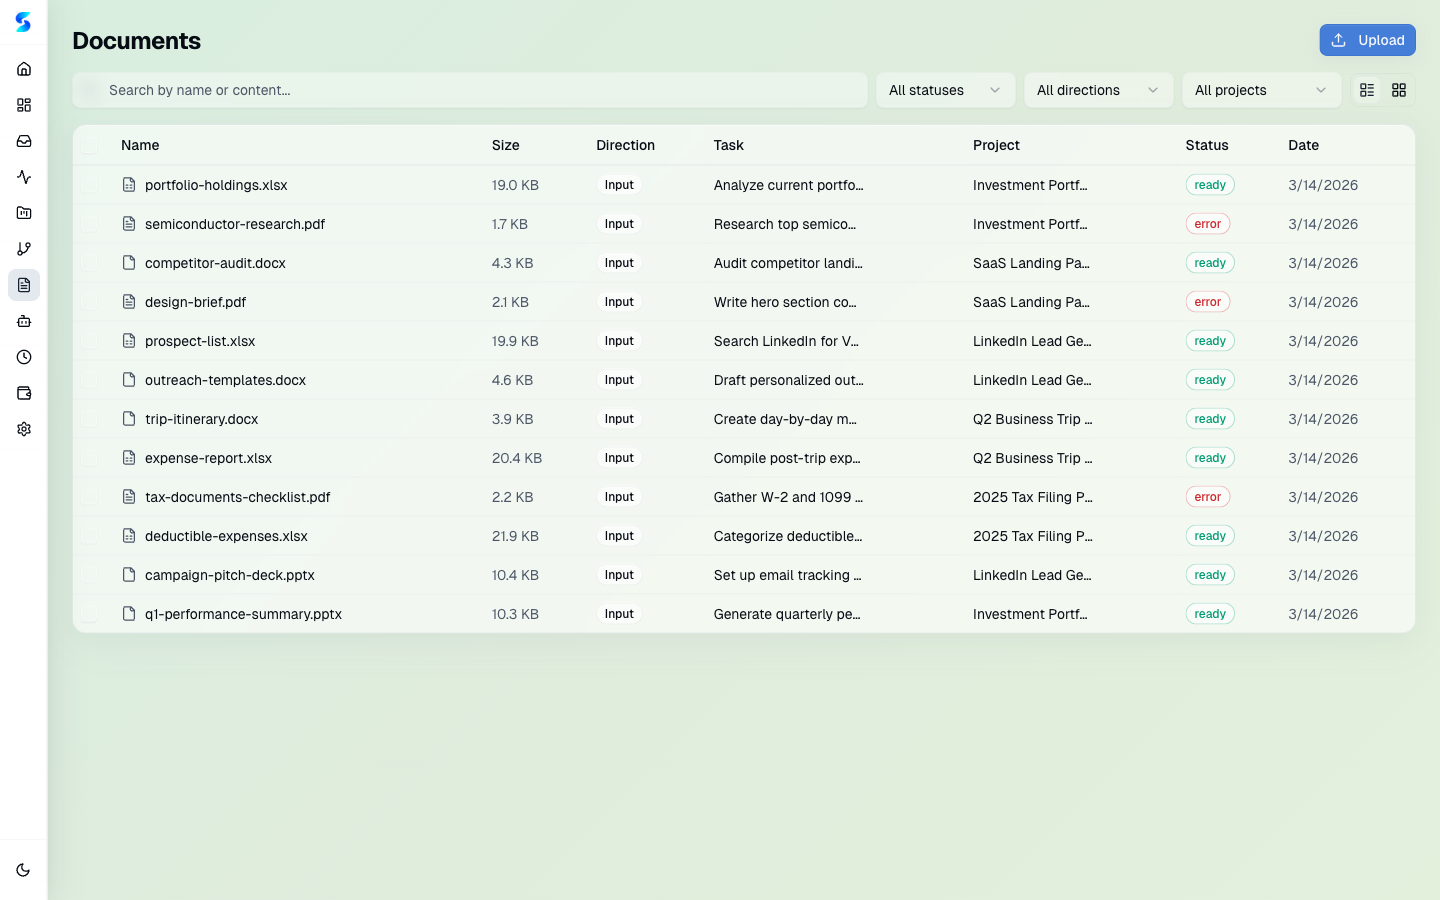
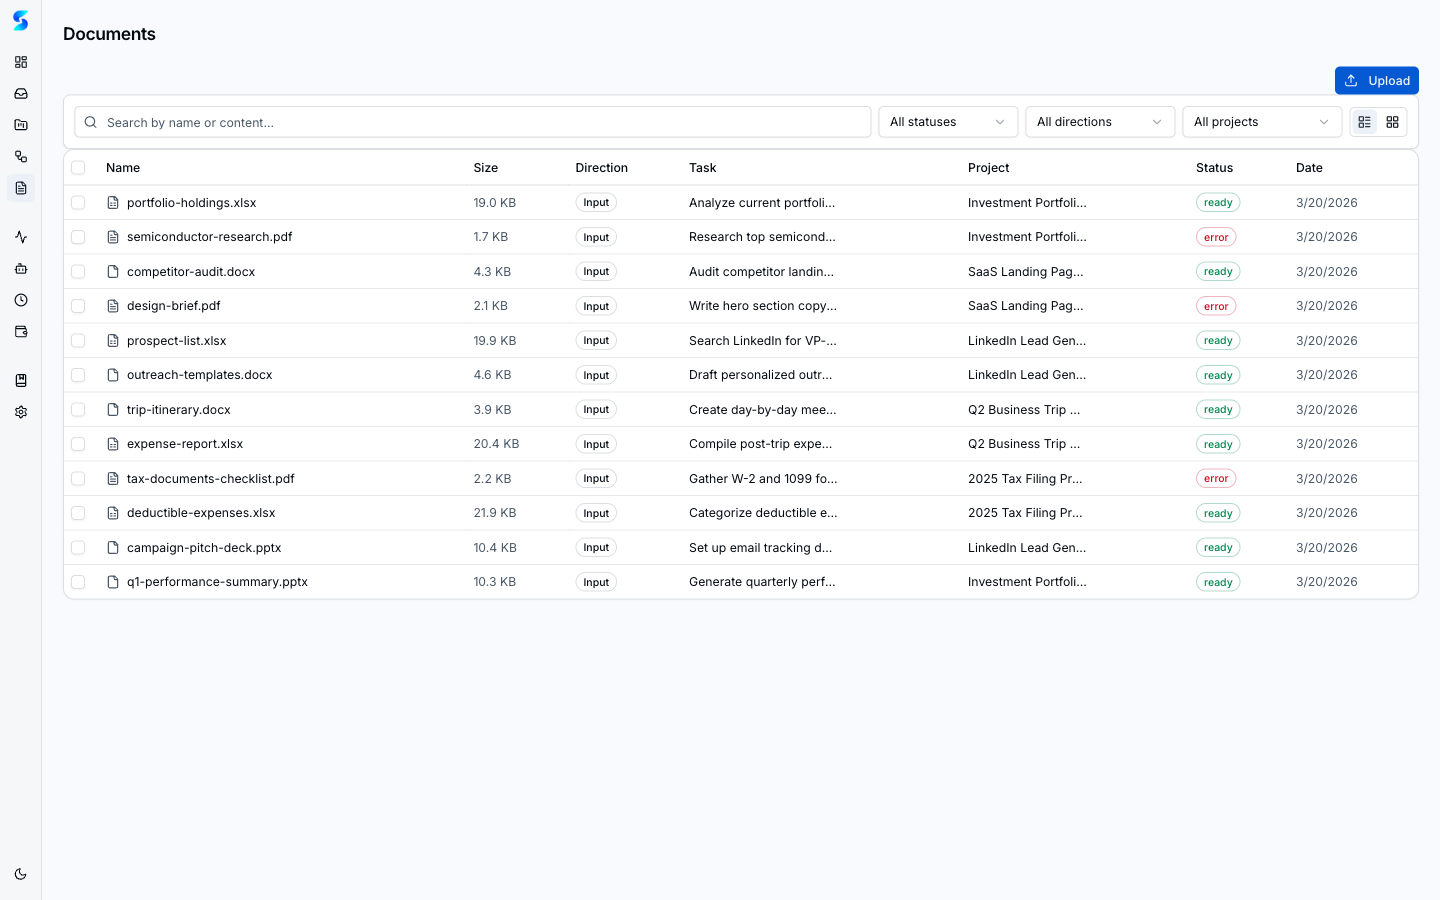
Update docs, screenshots, and dashboard components for Calm Ops refresh
Regenerate journey docs, replace outdated screenshots with new captures,
add detail views, and apply minor component tweaks to dashboard widgets.

diff --git a/src/components/dashboard/activity-feed.tsx b/src/components/dashboard/activity-feed.tsx
@@ -29,13 +29,13 @@ const eventColors: Record<string, string> = {
 
 export function ActivityFeed({ entries, hourlyActivity }: ActivityFeedProps) {
   return (
-    <Card className="surface-card">
+    <Card className="surface-card h-full flex flex-col">
       <CardHeader className="pb-3">
         <CardTitle className="text-sm font-semibold uppercase tracking-wide text-muted-foreground">
           Live Agent Activity
         </CardTitle>
       </CardHeader>
-      <CardContent>
+      <CardContent className="flex-1 flex flex-col">
         {hourlyActivity && hourlyActivity.some((v) => v > 0) && (
           <div className="mb-3 pb-3 border-b border-border/50">
             <p className="text-[10px] text-muted-foreground mb-1.5">24h activity</p>
@@ -86,7 +86,7 @@ export function ActivityFeed({ entries, hourlyActivity }: ActivityFeedProps) {
             ))}
           </div>
         )}
-        <div className="mt-3">
+        <div className="mt-auto pt-3">
           <Link href="/monitor">
             <Button variant="outline" size="sm" className="w-full">
               Open monitor <ArrowRight className="h-3 w-3 ml-1" />

diff --git a/src/components/dashboard/priority-queue.tsx b/src/components/dashboard/priority-queue.tsx
@@ -44,13 +44,13 @@ const priorityColors = ["text-priority-critical", "text-priority-high", "text-st
 
 export function PriorityQueue({ tasks }: PriorityQueueProps) {
   return (
-    <Card className="surface-card">
+    <Card className="surface-card h-full flex flex-col">
       <CardHeader className="pb-3">
         <CardTitle className="text-sm font-semibold uppercase tracking-wide text-muted-foreground">
           Needs Attention
         </CardTitle>
       </CardHeader>
-      <CardContent>
+      <CardContent className="flex-1 flex flex-col">
         {tasks.length === 0 ? (
           <p
             className="text-sm text-muted-foreground py-4 text-center"
@@ -115,7 +115,7 @@ export function PriorityQueue({ tasks }: PriorityQueueProps) {
             })}
           </div>
         )}
-        <div className="mt-3">
+        <div className="mt-auto pt-3">
           <Link href="/dashboard">
             <Button variant="outline" size="sm" className="w-full">
               View all tasks <ArrowRight className="h-3 w-3 ml-1" />

diff --git a/src/app/page.tsx b/src/app/page.tsx
@@ -222,12 +222,16 @@ export default async function HomePage() {
           }}
         />
         <div className="grid grid-cols-1 gap-6 lg:grid-cols-5 mb-6">
-          <div className="lg:col-span-3 space-y-6">
+          <div className="lg:col-span-3">
             <PriorityQueue tasks={allPriorityItems} />
+          </div>
+          <div className="lg:col-span-2">
+            <ActivityFeed entries={serializedLogs} hourlyActivity={agentActivityByHour} />
+          </div>
+          <div className="lg:col-span-3">
             <RecentProjects projects={recentProjectData} />
           </div>
-          <div className="lg:col-span-2 space-y-6">
-            <ActivityFeed entries={serializedLogs} hourlyActivity={agentActivityByHour} />
+          <div className="lg:col-span-2">
             <QuickActions />
           </div>
         </div>

diff --git a/src/components/dashboard/quick-actions.tsx b/src/components/dashboard/quick-actions.tsx
@@ -21,7 +21,7 @@ export function QuickActions() {
   return (
     <div className="mb-6">
       <SectionHeading>Quick Navigation</SectionHeading>
-      <div className="grid grid-cols-4 sm:grid-cols-8 gap-2">
+      <div className="grid grid-cols-4 gap-2">
         {actions.map((action) => (
           <button
             key={action.label}

diff --git a/docs/journeys/power-user.md b/docs/journeys/power-user.md
@@ -6,7 +6,7 @@ difficulty: "advanced"
 estimatedTime: "24 minutes"
 sections: ["profiles", "workflows", "schedules", "monitor"]
 tags: [advanced, profiles, workflows, blueprints, autonomous, swarm, orchestration]
-lastUpdated: "2026-03-18"
+lastUpdated: "2026-03-21"
 ---
 
 # Power User Guide
@@ -47,11 +47,18 @@ Browse the catalog and read the descriptions. Each profile defines the agent's p
 
 Built-in profiles cover common cases. Custom profiles let you encode your exact requirements.
 
-Click **New Profile** in the Profiles view. Build a specialist:
+Click **New Profile** in the Profiles view to open the full-page creation form.
 
-1. **Name**: "TypeScript Migration Specialist"
-2. **Description**: "Migrates JavaScript codebases to TypeScript with strict type safety"
-3. **Instructions**: Write detailed behavioral rules:
+![Create Profile form with Identity, Metadata, Runtime, Tools, and SKILL.md sections](../../screengrabs/profiles-create-form-empty.png)
+
+Build a specialist by filling in each section of the form:
+
+1. **Identity**: Enter a **Name** like "TypeScript Migration Specialist." The **ID** auto-generates a slug from the name. Set the **Domain** to Work or Personal — this controls default tool permissions
+2. **Metadata**: Set **Version** (e.g., 1.0.0), optionally add an **Author**, and enter **Tags** like "coding, migration, typescript" for searchability
+3. **Model Tuning**: Adjust the **Max Turns** slider (default is 30 — increase for complex multi-file tasks). Set an **Output Format** if you want structured responses (e.g., markdown, json)
+4. **Runtime Coverage**: Toggle **Claude Code** on (enabled by default). Toggle **OpenAI Codex App Server** on if you want this profile available on the Codex runtime too
+5. **Tools**: Enter **Allowed Tools** as a comma-separated list (e.g., "Read, Edit, Bash, Grep"). Leave empty to allow all tools
+6. **SKILL.md**: Write detailed behavioral **Instructions** in the textarea:
    ```
    You are an expert at migrating JavaScript codebases to TypeScript.
    - Always use strict TypeScript configuration (no `any` types)
@@ -59,8 +66,6 @@ Click **New Profile** in the Profiles view. Build a specialist:
    - Check for circular dependencies before modifying module structure
    - Report a migration progress percentage after each file conversion
    ```
-4. **Allowed Tools**: Grant file read, file write, glob, grep, and bash
-5. **Max Turns**: Set to 50 (migrations require many iterations)
 
 Click **Create** and your custom profile appears in the catalog alongside the built-in ones.
 
@@ -89,17 +94,20 @@ If the behavior is off, edit the instructions and test again. Iteration is norma
 
 Workflows chain multiple tasks together. A sequence workflow runs steps one after another, with each step receiving the previous step's output as context.
 
-Navigate to **Workflows** in the sidebar and click **New Workflow**.
+Navigate to **Workflows** in the sidebar and click **New Workflow** to open the workflow creation form.
 
-![Workflow list with keyword-inferred icon circles, status badges, and pattern indicators](../../screengrabs/workflows-list.png)
+![Create Workflow form with pattern selector, step editor, and profile assignment](../../screengrabs/workflows-create-form-filled.png)
 
-Select the **Sequence** pattern and add your steps:
+The form has two panels. The left panel defines the **Workflow Identity**: Name, Pattern dropdown, and Project selector, plus a **Step Overview** sidebar that lists all steps and a **+ Add Step** button. The right panel is the **Step Editor** where you configure each step's title, prompt, profile, and runtime.
 
-1. **Step 1 — Research**: "Analyze the current codebase and identify all JavaScript files that should be migrated to TypeScript. Prioritize by import frequency." Assign the Researcher profile.
-2. **Step 2 — Migrate**: "Using the prioritized list from the previous step, migrate the top 5 files to TypeScript." Assign your custom TypeScript Migration Specialist profile.
-3. **Step 3 — Review**: "Review the migrated files for type safety, check that tests still pass, and report any issues." Assign the Code Reviewer profile.
+Here is an example using the **Planner → Executor** pattern:
 
-Click **Create Workflow**. Each step inherits the project's working directory and has access to previous step outputs.
+1. **Name**: "Content Marketing Pipeline"
+2. **Pattern**: Select **Planner → Executor** from the dropdown — the planner agent breaks the goal into subtasks and the executor runs them
+3. **Project**: Select a project to associate the working directory
+4. **Step 1 — Research & Outline**: Write the agent prompt (e.g., "Research trending topics in the target domain. Analyze competitor content gaps and audience interests. Generate a detailed content outline with key points, target keywords, and suggested structure for a blog post.") and assign the **Researcher** profile
+
+Click **+ Add Step** to add more steps — for example, a writing step with the Document Writer profile and a review step with the Code Reviewer profile. Click **Create Workflow** when done. Each step inherits the project's working directory and has access to previous step outputs.
 
 ---
 
@@ -108,15 +116,22 @@ Click **Create Workflow**. Each step inherits the project's working directory an
 
 Blueprints are pre-configured workflow templates. Instead of building from scratch every time, start from a proven pattern.
 
-Click **New Workflow** and select the **Blueprints** tab. Browse the available templates — "Code Review Pipeline," "Research Report," "Documentation Sprint," and others. Each blueprint shows:
+Navigate to **Blueprints** in the sidebar to browse the template gallery.
 
-- The workflow pattern (sequence, parallel, checkpoint)
-- The number of steps and their descriptions
-- Which variables you need to fill in (repository path, review criteria, output format)
+![Blueprint gallery with domain-filtered template cards](../../screengrabs/workflows-blueprints.png)
+
+Browse the available templates — "Code Review Pipeline," "Documentation Generation," "Research Report," "Sprint Planning," and others. Each blueprint card shows:
+
+- A colored icon circle matching the blueprint's category
+- **Domain badges** (work or personal) and **difficulty badges** (beginner, intermediate, advanced)
+- A short description of what the workflow does
+- The workflow pattern, **step count**, and **estimated time** (e.g., "Sequence · 3 steps · 10-15 min")
+
+Use the **All / Work / Personal** filter tabs or the search bar to narrow the gallery.
 
 Select a blueprint, fill in the dynamic form with your specific values, review the generated steps, and click **Create Workflow**. The blueprint becomes a fully editable workflow that you can customize further.
 
-![Workflow confirmation dialog showing steps and profile assignments before execution](../../screengrabs/dashboard-workflow-confirm.png)
+![Workflow detail showing steps with checkpoint badges and execution status](../../screengrabs/workflows-detail.png)
 
 > **Tip**: Blueprints track lineage. You can always see which template a workflow came from and how it was customized, making it easy to iterate on proven patterns.
 
@@ -196,7 +211,11 @@ Combine workflows with schedules to create fully autonomous pipelines.
 
 ![Schedules page showing active schedules with intervals, next run times, and firing counts](../../screengrabs/schedules-list.png)
 
-Navigate to **Schedules** and click **New Schedule**. Instead of a simple prompt, you can link a schedule to a workflow:
+Navigate to **Schedules** and click **New Schedule** to open the creation dialog.
+
+![Create Schedule dialog with interval presets, prompt field, and profile selector](../../screengrabs/schedules-create-form-filled.png)
+
+Instead of a simple prompt, you can link a schedule to a workflow:
 
 1. **Name**: "Weekly Code Quality Pipeline"
 2. **Linked Workflow**: Select your sequence workflow from Step 4

diff --git a/docs/journeys/work-use.md b/docs/journeys/work-use.md
@@ -29,7 +29,7 @@ Work projects are different from personal experiments. They need structure, and 
 
 Navigate to **Projects** in the sidebar and click **New Project**. Name it something meaningful like "Q2 API Migration" or "Client Onboarding Automation." Write a description that captures the project's goal — agents will see this description as context when working on tasks within the project.
 
-![Project detail view showing task list, status distribution, and activity sparkline](../../screengrabs/projects-detail.png)
+![Create Project form with name, description, and working directory fields](../../screengrabs/projects-create-form-filled.png)
 
 Set the **Working Directory** to the relevant folder on your machine. For a code project, point it at the repository root. For a documentation project, point it at the folder where output files should land. The working directory is the agent's home base — it determines where file operations happen.
 
@@ -44,7 +44,7 @@ Agents work better with context. Instead of pasting long specifications into tas
 
 Navigate to **Documents** in the sidebar. Click **Upload** and select your reference files — API specifications, design documents, compliance checklists, meeting notes, or anything the agent might need to reference.
 
-![Documents table view showing uploaded files with type, size, and project assignment](../../screengrabs/documents-list.png)
+![Documents table view showing files with name, size, direction, task, project, status, and date columns](../../screengrabs/documents-list.png)
 
 Stagent automatically processes each upload: it extracts text from PDFs, parses Word documents, reads spreadsheets, and measures image dimensions. The extracted content becomes searchable and injectable into agent prompts. Assign each document to the appropriate project using the project dropdown.
 
@@ -57,7 +57,7 @@ Stagent automatically processes each upload: it extracts text from PDFs, parses 
 
 Switch to the grid view to see your document library visually.
 
-![Documents grid view showing file thumbnails and metadata cards](../../screengrabs/documents-grid.png)
+![Documents grid view showing file cards with type icons, size, status badges, and direction labels](../../screengrabs/documents-grid.png)
 
 The grid view displays document cards with type icons, file sizes, and processing status indicators. Click any card to open the document detail sheet, where you can see the extracted text, edit metadata, or reassign the document to a different project.
 
@@ -121,7 +121,7 @@ Start with a conservative global limit and adjust as you learn your usage patter
 
 Navigate to **Cost & Usage** in the sidebar to see where your budget is going.
 
-![Cost and Usage dashboard showing spending breakdown by provider and project](../../screengrabs/cost-usage-list.png)
+![Cost and Usage dashboard showing monthly spend, daily budget, remaining headroom, active providers, and pricing tables](../../screengrabs/cost-usage-list.png)
 
 The dashboard breaks down spending by:
 
@@ -181,6 +181,8 @@ Accepted proposals become part of the agent's context for future tasks in the sa
 Return to the project detail view to see how your work project is progressing.
 
 Click your project in the **Projects** list. The detail view shows:
+
+![Project detail view showing task breakdown by status, completion bar, and activity sparkline](../../screengrabs/projects-detail.png)
 
 - **Task breakdown by status**: How many tasks are planned, in progress, completed, or failed
 - **Completion percentage**: A progress indicator across all tasks

diff --git a/docs/journeys/personal-use.md b/docs/journeys/personal-use.md
@@ -6,7 +6,7 @@ difficulty: "beginner"
 estimatedTime: "20 minutes"
 sections: ["home", "dashboard", "projects"]
 tags: [getting-started, solo, productivity, first-run]
-lastUpdated: "2026-03-18"
+lastUpdated: "2026-03-20"
 ---
 
 # Personal Use Guide
@@ -81,7 +81,7 @@ The dashboard supports multiple views. You can filter by project, by priority, b
 
 Click the **Create Task** button in the top right corner of the dashboard. A form opens with fields for the task title, description, project assignment, priority, and complexity.
 
-![Empty task creation form with fields for title, description, and configuration](../../screengrabs/dashboard-create-form-empty.png)
+![Create Task form showing title, description, project, priority, and complexity fields](../../screengrabs/dashboard-create-form-filled.png)
 
 Start by typing a clear, specific title. Instead of "Write something," try "Draft a 500-word introduction for my personal website that highlights my background in data science." The more specific your prompt, the better the agent will perform.
 
@@ -96,7 +96,7 @@ Select your project from the dropdown. Set the priority to **Medium** and the co
 
 Before you submit, notice the **AI Assist** button on the form. This is one of Stagent's most useful features for beginners. Click it and watch what happens.
 
-![AI Assist analyzing the task and suggesting improvements to the description](../../screengrabs/dashboard-create-form-ai-assist.png)
+![AI Assist button on the Create Task form generating description and metadata suggestions](../../screengrabs/dashboard-create-form-ai-assist.png)
 
 AI Assist analyzes your task title and generates a detailed description, suggests an appropriate complexity level, recommends a priority, and even proposes which agent profile would be best suited for the job. It turns your one-line instruction into a well-structured task specification.
 

diff --git a/docs/journeys/developer.md b/docs/journeys/developer.md
@@ -51,7 +51,7 @@ The database is self-healing — `CREATE TABLE IF NOT EXISTS` runs at startup fo
 
 Stagent supports two authentication methods for the Claude runtime. Navigate to **Settings** in the sidebar.
 
-![Settings page showing authentication configuration, tool permissions, and runtime status](../../screengrabs/settings-list.png)
+![Settings page showing authentication method selection and OpenAI Codex runtime configuration](../../screengrabs/settings-list.png)
 
 **OAuth (recommended for Claude Max subscribers)**:
 - Select the **OAuth** radio button
